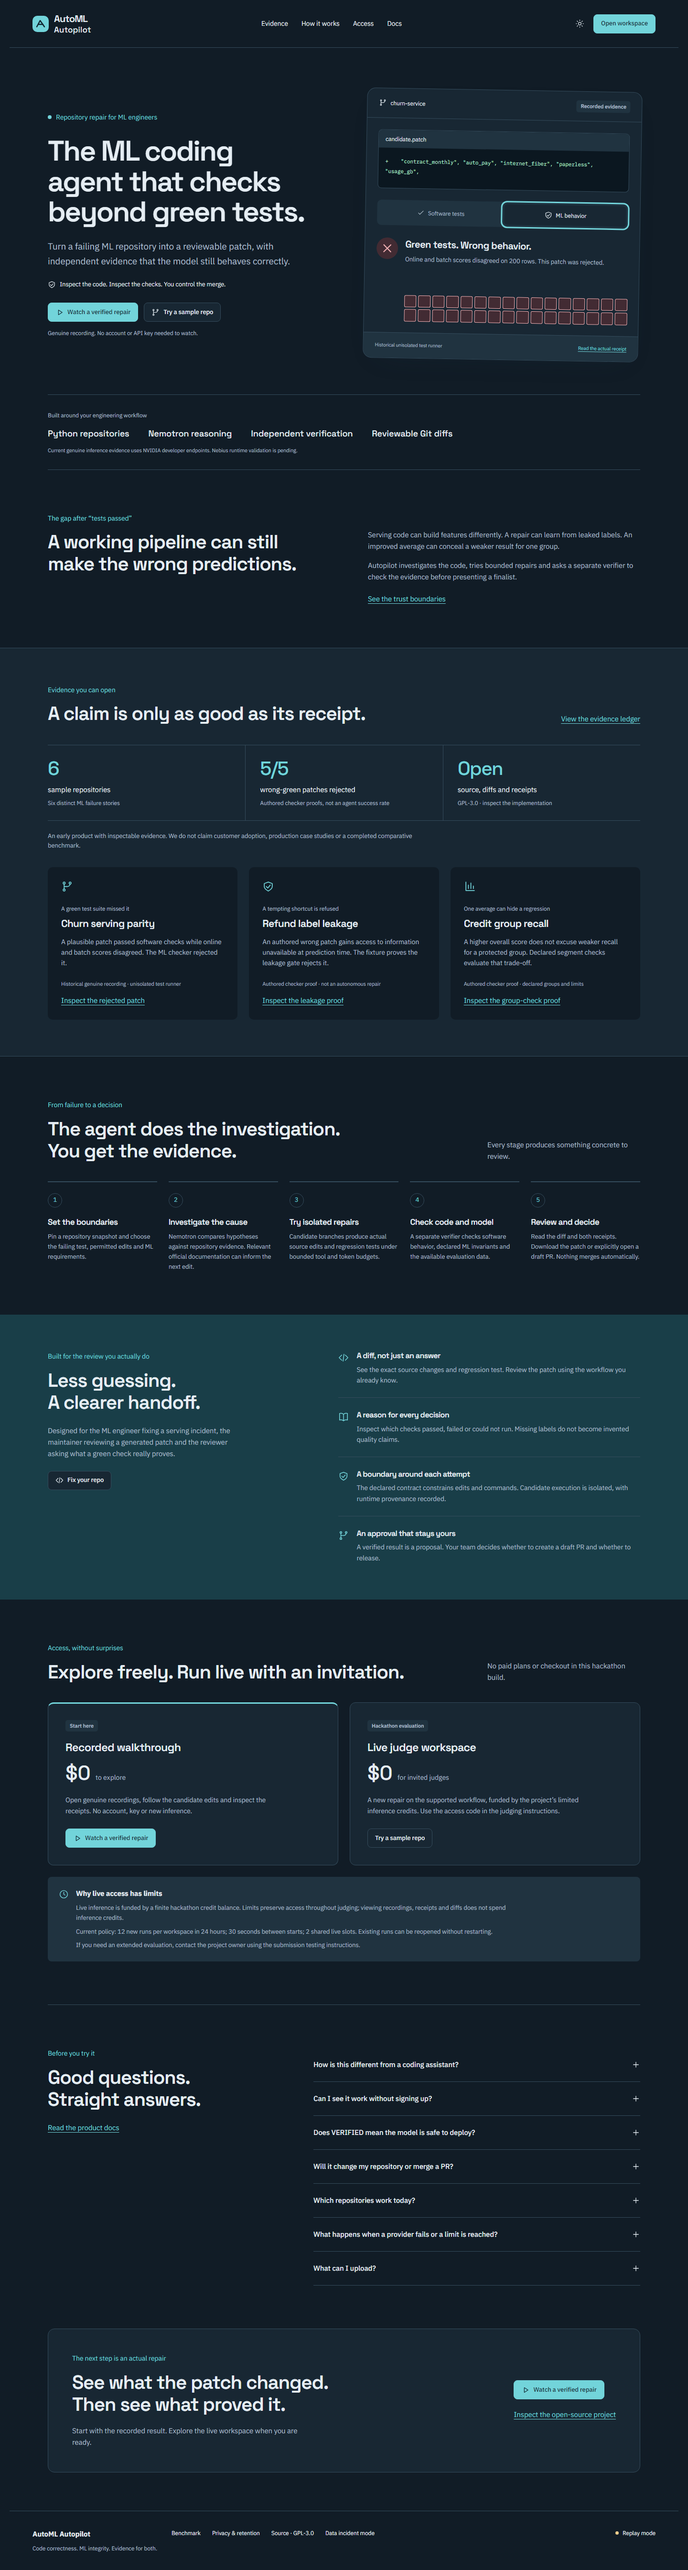
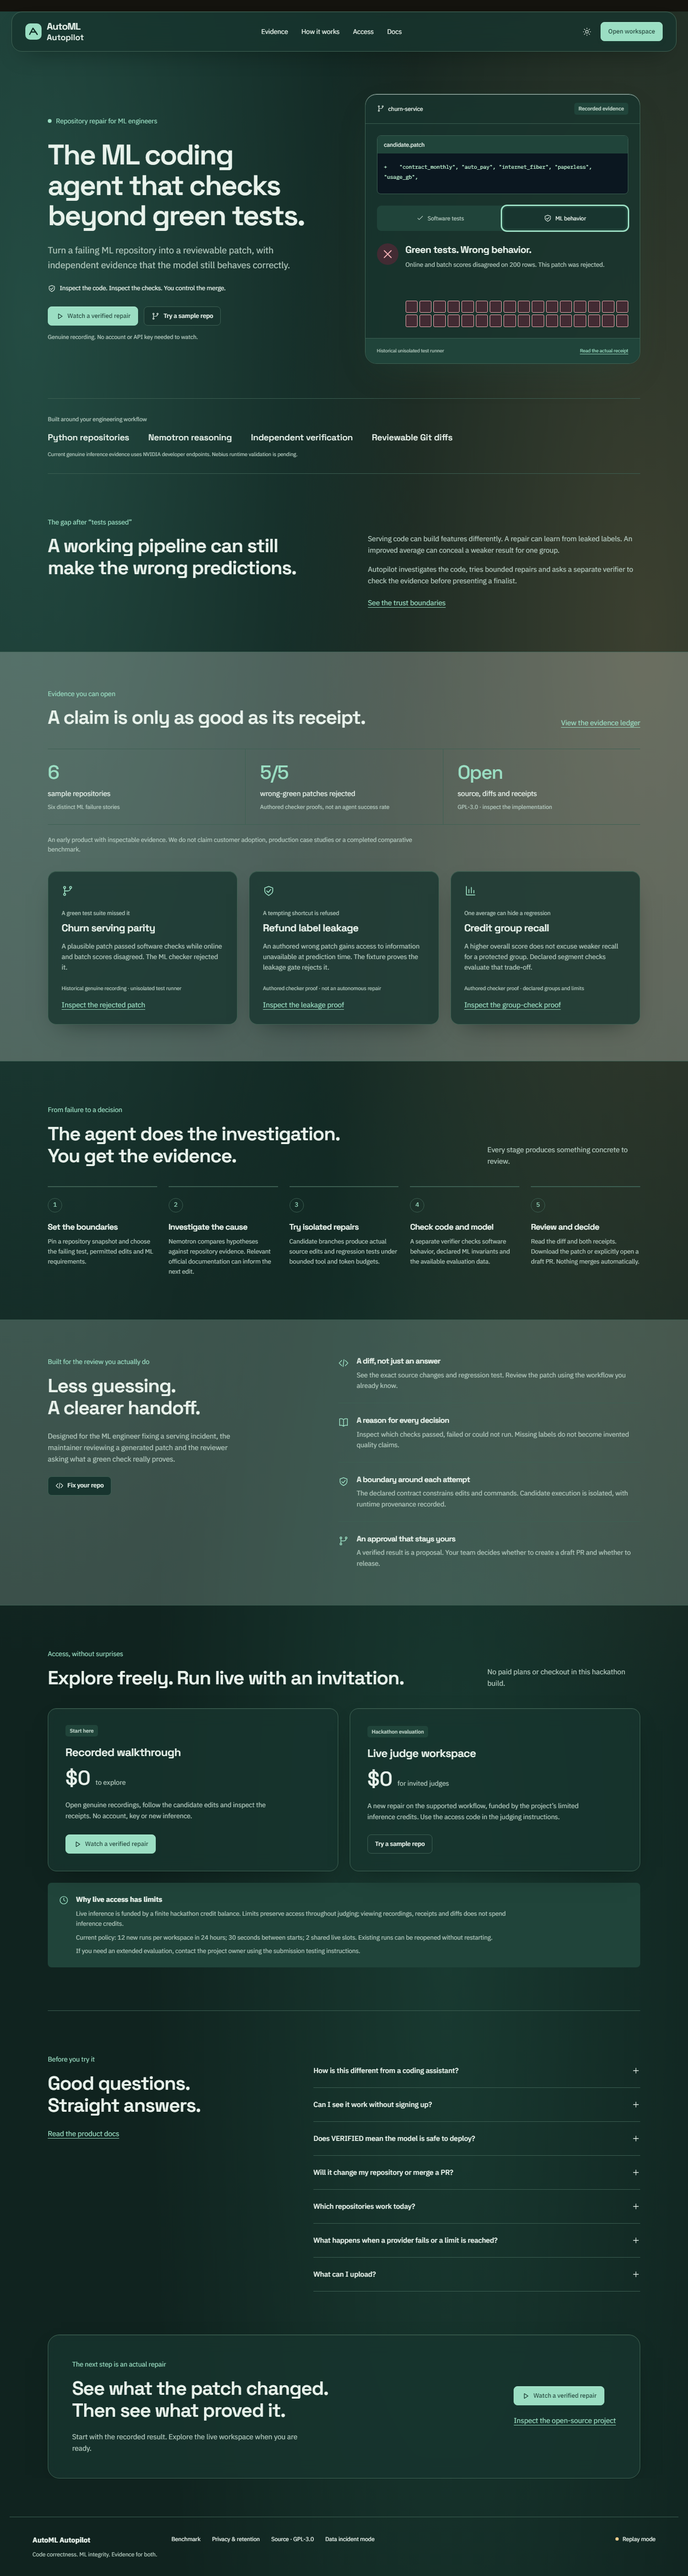
Refine landing and workspace with accessible glass surfaces

diff --git a/frontend/app/repair/repair.css b/frontend/app/repair/repair.css
@@ -1926,3 +1926,81 @@ html.dark .repair {
 @media (max-width:800px) { .r-public-header { flex-wrap: wrap; gap: 20px; } .r-public-header nav { order: 3; width: 100%; justify-content: space-between; } .r-public-header .r-brand { font-size: 17px; } .r-public-header .r-brand > span > span { font-size: 15px; } .lp-hero { grid-template-columns: 1fr; gap: 42px; } .lp-hero-copy { max-width: 640px; } .repair .lp-hero h1 { font-size: clamp(37px,7vw,54px); } .lp-instrument { max-width: 600px; transform: none; width: 100%; } .lp-section { padding-block: 58px; } .lp-problem, .lp-control-grid, .lp-faq-section { grid-template-columns: 1fr; gap: 28px; } .lp-problem > div:last-child { padding: 0; } .lp-section-head { align-items: flex-start; flex-direction: column; gap: 20px; } .lp-case-grid { grid-template-columns: 1fr; } .lp-case > div { padding-top: 18px; } .lp-case > svg { margin-bottom: 16px; } .lp-workflow { grid-template-columns: 1fr; gap: 0; } .lp-workflow li { display: flex; gap: 20px; padding: 22px 0; border-top-width: 1px; } .lp-workflow li > span { flex-shrink: 0; margin: 0; } .lp-evidence-section, .lp-control-section { padding-block: 55px; } .lp-final { flex-direction: column; align-items: flex-start; margin-bottom: 55px; } .r-public-footer { padding: 30px; } }
 @media (max-width:520px) { .lp-container { width: calc(100% - 40px); } .r-public-header { padding: 18px 20px; gap: 18px; } .r-public-header-actions { gap: 6px; } .r-public-header-actions .r-button-primary { font-size: 12px; padding: 9px 12px; } .r-public-header nav { font-size: 13px; gap: 12px; } .lp-hero { padding-block: 42px; } .repair .lp-hero h1 { font-size: 39px; letter-spacing: -1.6px; } .lp-audience { font-size: 12px; margin-bottom: 22px !important; } .lp-hero .r-actions { align-items: stretch; flex-direction: column; } .lp-built-with > div { gap: 13px 24px; font-size: 15px; } .lp-proof-facts { grid-template-columns: 1fr; } .lp-proof-facts > div + div { border-left: 0; border-top: 1px solid var(--r-border); padding-left: 0; } .lp-proof-facts > div { padding-block: 20px; } .lp-proof-facts strong { font-size: 34px; } .lp-access-grid { grid-template-columns: 1fr; } .lp-access-grid article { padding: 26px; } .lp-instrument-top,.lp-instrument-foot { padding: 15px; } .lp-instrument-foot { flex-wrap: wrap; } .lp-file { margin: 18px; } .lp-gate-switch { margin-inline: 18px; } .lp-gate-result { padding: 22px 18px 16px; } .lp-observations { margin-left: 78px; margin-right: 18px; } .lp-final { padding: 28px; } .repair .lp-final h2 { font-size: 29px; } }
 @media (prefers-reduced-motion:reduce) { .lp-observations span,.lp-faqs summary svg { transition: none; } }
+
+/* Frosted studio: opaque evidence surfaces inside a softly lit glass shell. */
+.r-glass {
+  --r-bg: #edf3ef;
+  --r-surface: #fafcf9;
+  --r-soft: #e7efeb;
+  --r-ink: #173a35;
+  --r-muted: #4e6861;
+  --r-border: #cbdcd4;
+  --r-accent: #146555;
+  --r-accent-soft: #dceee5;
+  --r-glass-panel: #f5f9f4;
+  --r-glass-edge: #ffffff;
+  --r-glass-shadow: 0 16px 44px -28px #264f4255, inset 0 1px 0 #ffffffb3;
+  background: radial-gradient(ellipse at 4% 12%, #c5dcd7 0, transparent 42%), radial-gradient(ellipse at 94% 24%, #e9dfc9 0, transparent 40%), radial-gradient(ellipse at 65% 75%, #d9e7dd 0, transparent 48%), #f4f5ee;
+}
+html.dark .r-glass {
+  --r-bg: #102723;
+  --r-surface: #18352f;
+  --r-soft: #20443a;
+  --r-ink: #e8f2eb;
+  --r-muted: #b5cbc0;
+  --r-border: #3d6053;
+  --r-accent: #9bdec3;
+  --r-accent-soft: #244c40;
+  --r-on-accent: #102e26;
+  --r-glass-panel: #18352f;
+  --r-glass-edge: #416556;
+  --r-glass-shadow: 0 20px 50px -28px #020e0ba3, inset 0 1px 0 #aacdb21a;
+  background: radial-gradient(ellipse at 4% 12%, #244c43 0, transparent 42%), radial-gradient(ellipse at 94% 24%, #3c4030 0, transparent 40%), radial-gradient(ellipse at 65% 75%, #193a31 0, transparent 48%), #10231f;
+}
+.r-glass .r-public-header, .r-glass .r-sidebar, .r-glass .r-topbar,
+.r-glass .r-panel, .r-glass .lp-instrument, .r-glass .lp-case,
+.r-glass .lp-access-grid article, .r-glass .lp-final {
+  background: var(--r-glass-panel);
+  border: 1px solid var(--r-glass-edge);
+  box-shadow: var(--r-glass-shadow);
+}
+.r-glass .r-public-header {
+  width: min(1400px, calc(100% - 48px));
+  margin: 24px auto 0;
+  min-height: 84px;
+  padding: 16px 28px;
+  border-radius: 22px;
+}
+.r-glass .r-sidebar { border-radius: 0 24px 24px 0; }
+.r-glass .r-panel { border-radius: 18px; }
+.r-glass .r-topbar { border-width: 0 0 1px; }
+.r-glass .lp-instrument { border-radius: 24px; transform: none; box-shadow: 0 28px 70px -30px #244f4266, inset 0 1px 0 #ffffffaa; }
+.r-glass .lp-instrument-top { background: transparent; }
+.r-glass .lp-evidence-section { background: #f7faf440; }
+.r-glass .lp-control-section { background: #c8ded33b; border-block: 1px solid var(--r-border); }
+.r-glass .lp-case, .r-glass .lp-access-grid article { border-radius: 18px; }
+.r-glass .lp-final { border-radius: 24px; }
+.r-glass .r-button-primary { box-shadow: 0 5px 14px -7px #174f4373, inset 0 1px 0 #ffffff24; }
+.r-glass .lp-file, .r-glass pre { background: var(--r-code); }
+/* Blur only large surfaces: nested controls and evidence remain crisp. */
+@supports ((backdrop-filter: blur(1px)) or (-webkit-backdrop-filter: blur(1px))) {
+  .r-glass { --r-glass-panel: #ffffffa6; }
+  html.dark .r-glass { --r-glass-panel: #18352fcc; }
+  .r-glass .r-public-header, .r-glass .r-sidebar, .r-glass .r-topbar,
+  .r-glass .r-panel, .r-glass .lp-instrument, .r-glass .lp-case,
+  .r-glass .lp-access-grid article, .r-glass .lp-final {
+    -webkit-backdrop-filter: blur(18px) saturate(115%);
+    backdrop-filter: blur(18px) saturate(115%);
+  }
+}
+@media (max-width: 800px) {
+  .r-glass .r-public-header { padding: 18px 22px; }
+}
+@media (max-width: 520px) {
+  .r-glass .r-public-header { width: calc(100% - 24px); margin-top: 12px; padding: 18px 14px; border-radius: 18px; }
+}
+@media (prefers-reduced-transparency: reduce) {
+  .r-glass { --r-glass-panel: #fafcf9; }
+  html.dark .r-glass { --r-glass-panel: #18352f; }
+  .r-glass :is(.r-public-header,.r-sidebar,.r-topbar,.r-panel,.lp-instrument,.lp-case,.lp-access-grid article,.lp-final) { backdrop-filter: none; -webkit-backdrop-filter: none; }
+}

diff --git a/frontend/components/repair/Shell.tsx b/frontend/components/repair/Shell.tsx
@@ -79,7 +79,7 @@ export default function RepairShell({
   const connected = status.data;
   if (pathname === "/" || pathname === "/repair")
     return (
-      <div className="repair r-public" ref={root}>
+      <div className="repair r-glass r-public" ref={root}>
         <a href="#repair-content" className="r-skip">
           Skip to main content
         </a>
@@ -143,7 +143,7 @@ export default function RepairShell({
     );
   return (
     <div
-      className="repair"
+      className="repair r-glass"
       ref={root}
       onKeyDown={(event) => {
         const target = event.target as HTMLElement;

diff --git a/docs/SUBMISSION_OWNER_HANDOFF.md b/docs/SUBMISSION_OWNER_HANDOFF.md
@@ -1,0 +1,28 @@
+# Submission inputs and remaining ship gates
+
+Updated October 30, 2026. No cloud resources were provisioned during the glass UI update.
+
+## Inputs needed from the owner
+
+1. Link Google Cloud project utoml-autopilot to the billing account holding the  trial credit. The active gcloud project was verified; gcloud billing projects describe automl-autopilot returned illingEnabled: False. Confirm trial expiry and available credit in Billing. Do not paste account tokens into chat.
+2. Provide the Nebius Token Factory key through private local configuration and the sandbox-enabled project ID. Keep credentials outside Git. AI Cloud VM credentials are unnecessary for the planned Google Cloud host.
+3. Choose a public domain or approve a temporary HTTPS hostname, and confirm the desired Google Cloud region and VM size against the cost plan. Provisioning remains a separate deployment step.
+4. Supply a private judge invite/access method and an owner contact for access recovery. Share these privately through submission testing instructions.
+5. Provide the under-three-minute demo video, final submission description, significant-update statement and genuine provider feedback after using the integration.
+
+## Engineering gates before claiming submission readiness
+
+- Implement and test the direct Nebius Sandboxes adapter; the existing remote runner talks to our Docker service.
+- Verify Token Factory model IDs, successful NVIDIA model calls and evidence receipts on the actual project.
+- Validate repository, filesystem, network and sealed-verifier boundaries on the selected runtime; finish disk quota enforcement for the deployment target.
+- Deploy HTTPS, backups, restore checks, health monitoring and the persistent judge-only admission policy; run the complete public judge flow from a fresh browser.
+- Review remaining benchmark limitations honestly. Do not describe authored checker proofs as agent success rates or a partial comparison as a complete study.
+- Publish the reviewed source and required submission assets only under the owner-authorized release workflow.
+
+The local Application Default Credentials quota-project warning is distinct from project billing linkage. Align its quota project when a deployment tool actually uses ADC; it does not supply billing credit or enable billing.
+
+## Glass UI validation
+
+The production frontend build passed, and all 27 existing landing/workspace browser scenarios passed, including light/dark desktop/mobile axe checks, keyboard navigation and judge-limit retry behavior. Desktop light and mobile dark screenshots were visually reviewed. No provider calls or cloud resources were used.
+
+Docker status and the existing localhost:3135 preview stalled during refresh, so the refresh was stopped. The separate localhost:3140 frontend preview is for visual review and recorded evidence; it does not establish backend or cloud readiness. The full stack must be rechecked after Docker is responsive.

diff --git a/docs/LANDING_DESIGN_RATIONALE.md b/docs/LANDING_DESIGN_RATIONALE.md
@@ -36,3 +36,12 @@ Use the established line icon library. No stock imagery, animated background, au
 Hypothesis 1: a direct ML-coding headline plus actual receipt preview will make the product easier to understand than the earlier slogan. Hypothesis 2: replay first reduces friction before asking for live access. Hypothesis 3: explicit limits/provenance improve reviewer confidence compared with ambiguous claims. No percentage improvement is asserted and no visitor tracking was added. During judging, observe whether reviewers can reach the verified receipt, interpret the rejection, find live access instructions and recover from a limit. Any later A/B or analytics work needs an explicit privacy/data plan and a real sample; judge clicks are not proof of market conversion.
 
 The CRO review applies clarity, one core outcome, message consistency, objections, hierarchy, cognitive load, trust, specificity, section justification, commitment-matched CTAs, scannability, progressive confidence and empirical claims. Large-customer tactics from generic CRO references were intentionally not adopted because this product has no verified customer base.
+
+
+## Glass visual refinement (October 30, 2026)
+
+The supplied Abide reference informs the material treatment: a softly lit sage/teal canvas, frosted navigation, translucent panels, bright edge highlights and restrained shadows. AutoML Autopilot retains its existing typography, content, navigation and evidence hierarchy.
+
+The palette uses mist #edf3ef, pine #173a35, teal #146555, warm reflected light #e9dfc9 and opaque reading surfaces #fafcf9. Dark mode uses deep forest #102723 and mint #9bdec3. Glass is applied to the landing instrument, major cards, navigation and workspace panels; code blocks, forms and verdict colors retain readable surfaces. There is no continuous background animation.
+
+Blur is feature-detected, with opaque fallback surfaces and a reduced-transparency preference. Mobile uses smaller header margins without changing target sizes. Existing keyboard, responsive and axe checks validate both themes; screenshots are reviewed separately because axe cannot fully evaluate blended glass contrast.
